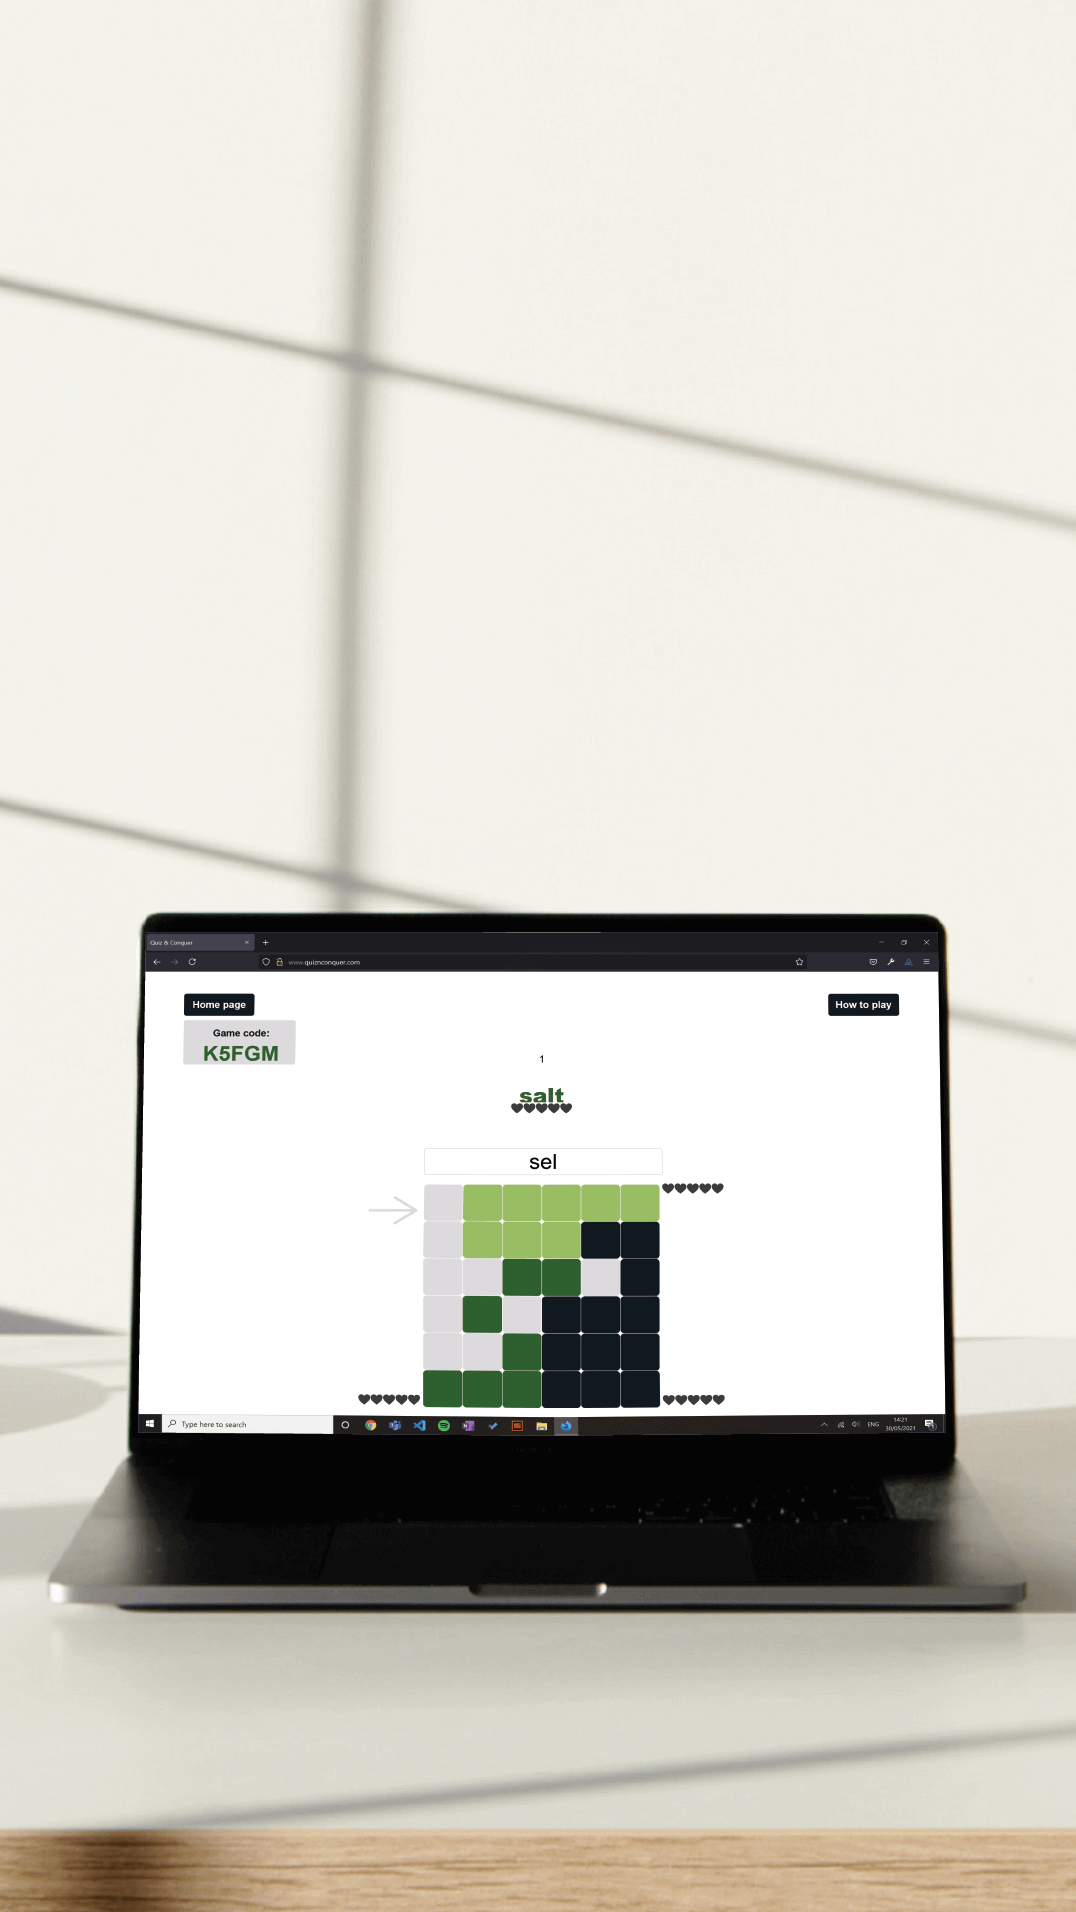
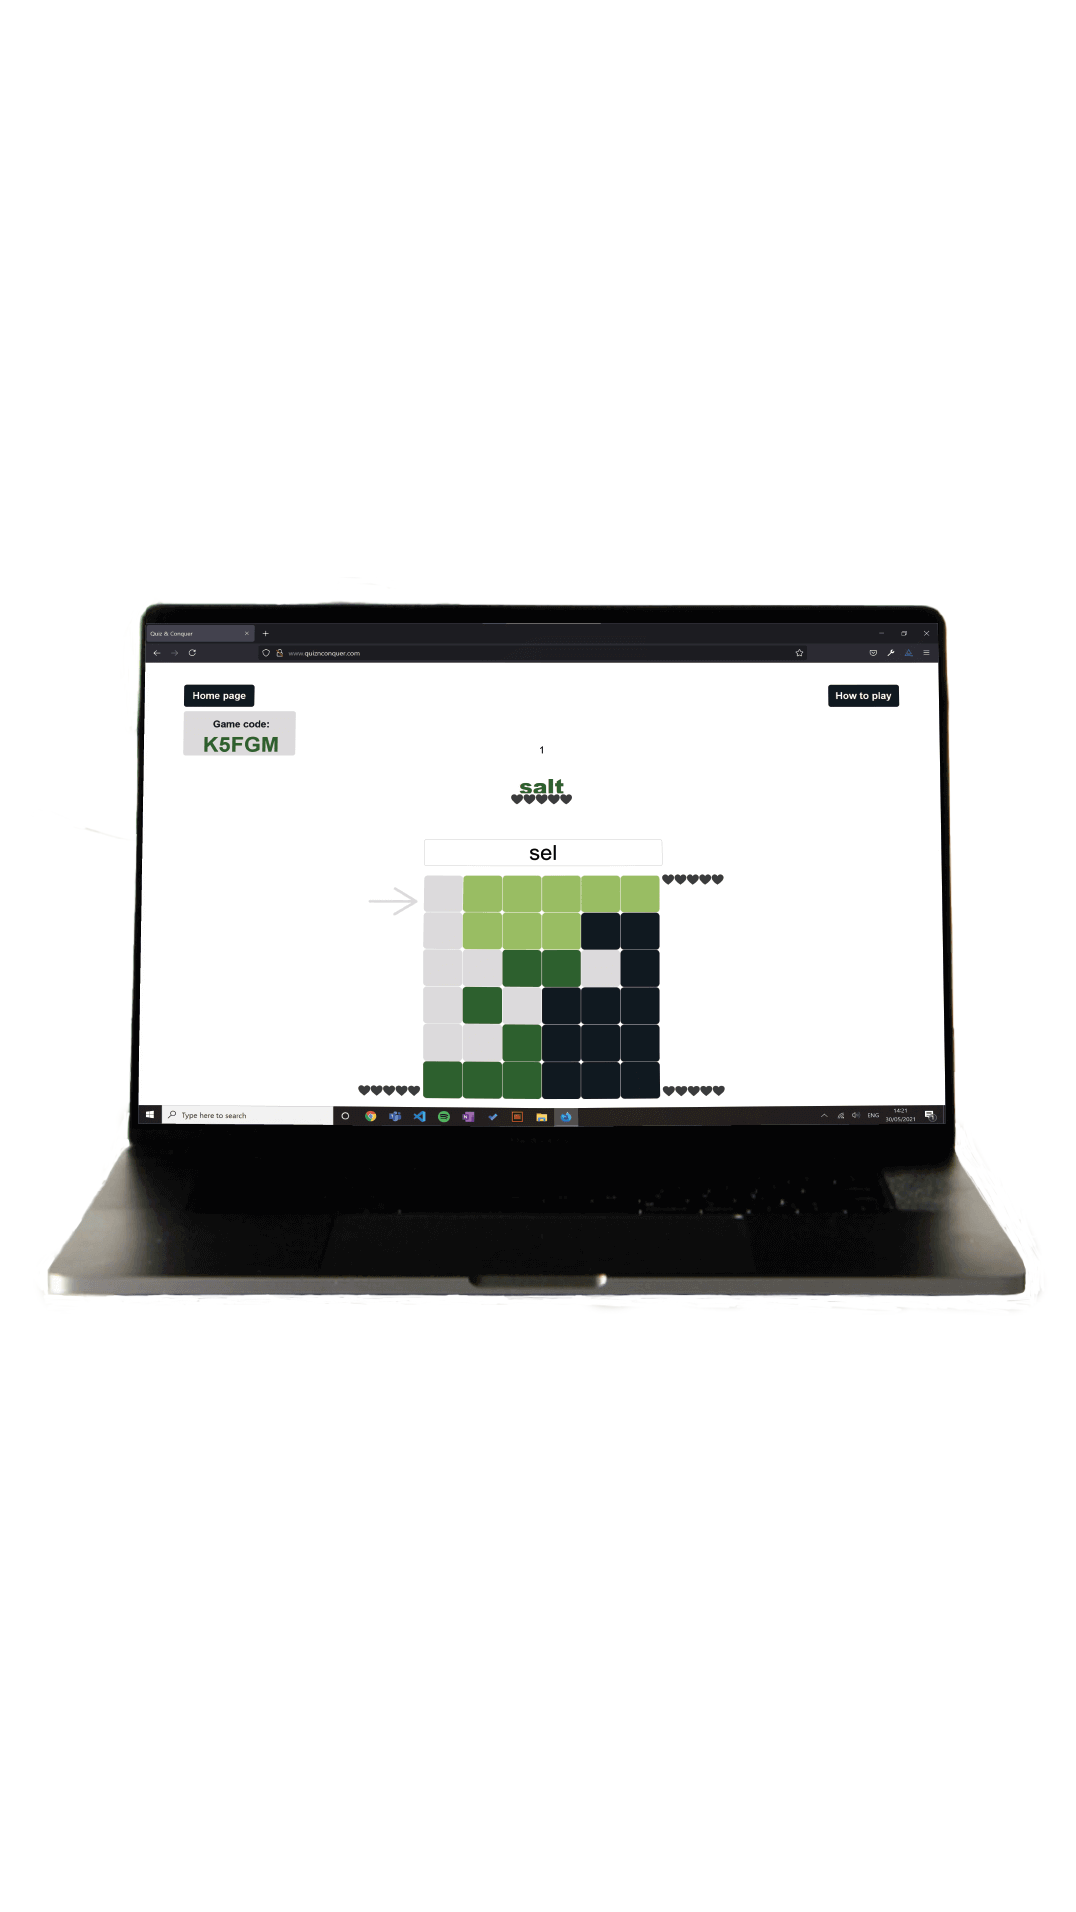
Removing background from QnC image. Hiding older project.

diff --git a/index.html b/index.html
@@ -216,7 +216,7 @@
 					<div class="col-md-1"></div>
 					<div class="col-md-9">
 						<strong>MEng Design Engineering, Imperial College London (2019 - present, currently final year)</strong> 
-						Year 3 grade: 72.22% (1st). <br><br>
+						Year 3 grade: 72.22% (1st). "Design Engineering is the fusion of design thinking, and engineering knowledge and practice within a culture of innovation and enterprise." - Defined by the <a href=" https://www.imperial.ac.uk/design-engineering/" class="color-heading op-7 "> Dyson School of Design Engineering</a>. <br><br>
 
 						<strong>Coursera (2019 - 2020)</strong>
 						Completed the online courses called “Mathematics for Machine Learning: Multivariate Calculus” and
